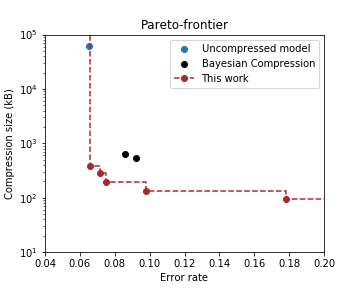
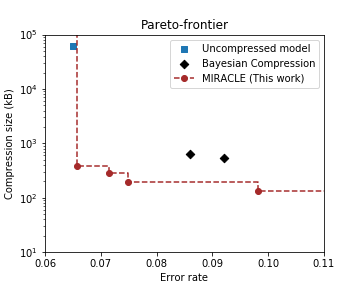
updated readme, pushing bugfixes

diff --git a/models/compressible_model.py b/models/compressible_model.py
@@ -69,7 +69,8 @@ class Compressible(object):
         mean_validation_acc += validation_acc
         return mean_validation_acc / 20.
 
-    def compress(self, retrain_iter):
+    def compress(self, retrain_iter, kl_penalty_step=1.0005):
+        self.sess.run(self.kl_penalty_step.assign(kl_penalty_step))
         n_blocks = self.fixed_weights.get_shape().as_list()[0]
         self.sess.run(self.enable_kl_loss.assign(1.))
         for i in range(n_blocks):
@@ -154,10 +155,11 @@ class Compressible(object):
 
         self.enable_kl_loss = tf.Variable(1., dtype=DTYPE, trainable=False)
         self.kl_loss = tf.reduce_sum(block_kl * self.mask * kl_penalties) * self.enable_kl_loss
+        self.kl_penalty_step = tf.Variable(kl_penalty_step, trainable=False)
         self.kl_penalty_update = [kl_penalties.assign(tf.where(tf.logical_and(tf.cast(self.mask, tf.bool),
                                                                               tf.greater(block_kl, kl_target)),
-                                                               kl_penalties * kl_penalty_step,
-                                                               kl_penalties / kl_penalty_step))]
+                                                               kl_penalties * self.kl_penalty_step,
+                                                               kl_penalties / self.kl_penalty_step))]
 
         mask_expanded = tf.expand_dims(self.mask, 1)
         combined_weights = tf.reshape(mask_expanded * variational_weights
@@ -208,7 +210,7 @@ class Compressible(object):
             nll_p = tf.reduce_sum(tf.square(sample_block), axis=1)
             #prob = tf.Print(tf.exp(-nll), [nll_q, nll_p], summarize=100)
             #norm_prob = tf.Print(prob / tf.reduce_sum(prob), [prob], summarize=100)
-            dist = tf.distributions.Categorical(logits=nll_p - nll_q, validate_args=True)
+            dist = tf.distributions.Categorical(probs=tf.nn.softmax(nll_p - nll_q)) # , validate_args=True) #Risky
             index = dist.sample([])
 
             # This line makes the algorithm objectively better. But we cannot prove it theoretically.

diff --git a/README.md b/README.md
@@ -1,5 +1,5 @@
-# Variational Shannon Coding
-This repository contains the code for our recent paper `Variational Shannon Coding' (arxiv link coming soon). This is the implementation of VSC for LeNet-5 on MNIST and VGG-16 on CIFAR-10. It is based on Tensorflow (1.3). 
+# MIRACLE
+This repository contains the code for our recent paper `Minimal Random Code Learning: Getting Bits Back from Compressed Model Parameters' (https://arxiv.org/abs/1810.00440). This is the implementation of MIRACLE for LeNet-5 on MNIST and VGG-16 on CIFAR-10. It is based on Tensorflow (1.3). 
 
 An example model can be trained by running
 
